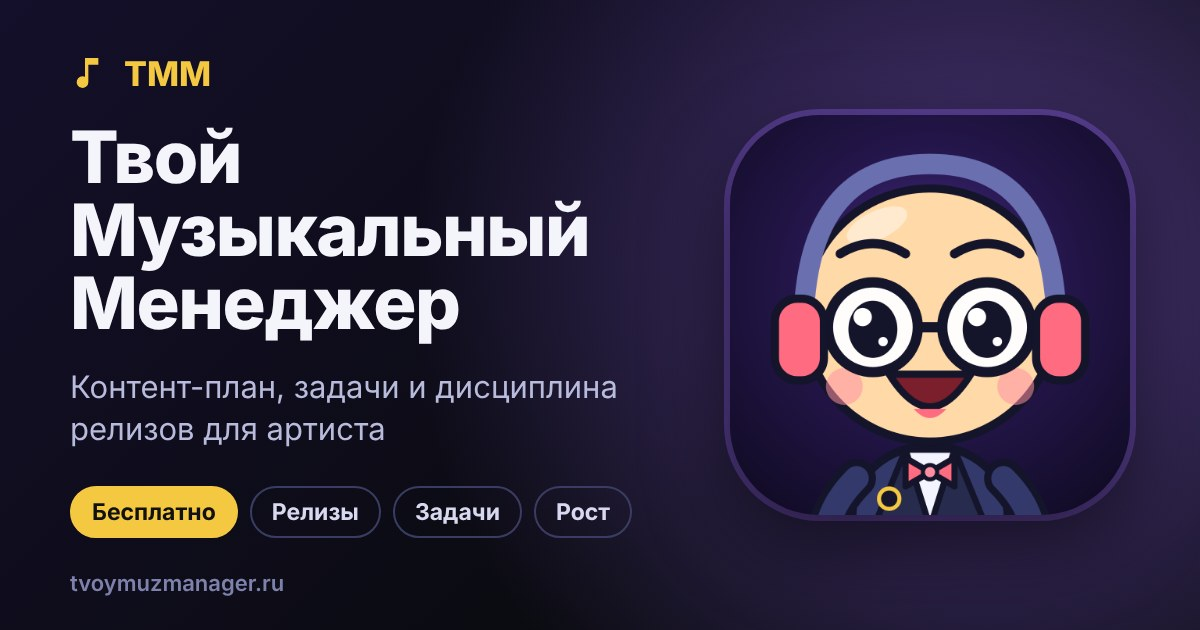
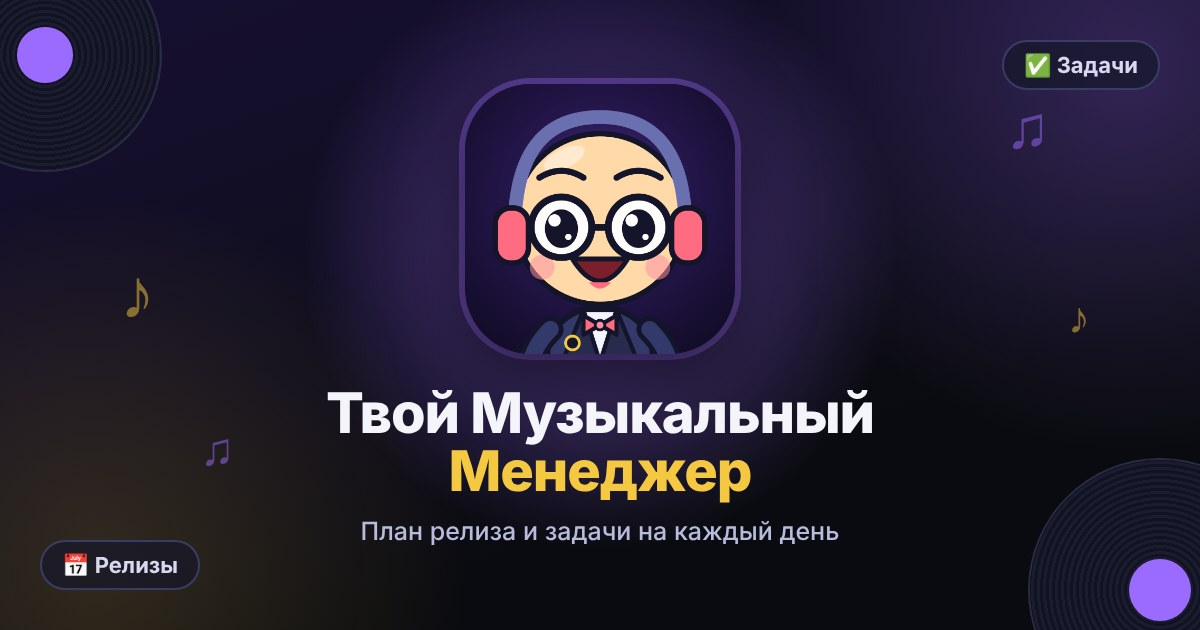
Превью ссылки: главное в центре, чтобы квадратная обрезка ВК не резала текст
Claude-Session: https://claude.ai/code/session_01D4KCe329M2tGeP7AitbD4B

diff --git a/index.html b/index.html
@@ -20,7 +20,7 @@
 <meta property="og:title" content="Твой Музыкальный Менеджер">
 <meta property="og:description" content="Бесплатный менеджер для артиста: план релиза, контент-план и задачи на каждый день. Помогает выпускать музыку регулярно и расти.">
 <meta property="og:url" content="https://tvoymuzmanager.ru/">
-<meta property="og:image" content="https://tvoymuzmanager.ru/og.jpg?v=1">
+<meta property="og:image" content="https://tvoymuzmanager.ru/og.jpg?v=2">
 <meta property="og:image:width" content="1200">
 <meta property="og:image:height" content="630">
 <meta property="og:image:alt" content="ТММ — маскот в наушниках и название приложения">
@@ -28,7 +28,7 @@
 <meta name="twitter:card" content="summary_large_image">
 <meta name="twitter:title" content="Твой Музыкальный Менеджер">
 <meta name="twitter:description" content="Бесплатный менеджер для артиста: план релиза, контент-план и задачи на каждый день. Помогает выпускать музыку регулярно и расти.">
-<meta name="twitter:image" content="https://tvoymuzmanager.ru/og.jpg?v=1">
+<meta name="twitter:image" content="https://tvoymuzmanager.ru/og.jpg?v=2">
 <link href="https://fonts.googleapis.com/css2?family=Inter:wght@400;500;600;700;800&display=swap" rel="stylesheet">
 <style>
 :root{--bg:#0a0b10;--bg2:#100b20;--card:#161729;--card2:#1d1f36;--line:#2a2c47;--ink:#f4f4fb;--mut:#8b8fb5;--y:#f5c842;--p:#9b6bff;--o:#ff9a2e;--g:#4ade80;--bad:#ff6b81;color-scheme:dark;box-sizing:border-box}

diff --git a/tools/build_site.py b/tools/build_site.py
@@ -41,7 +41,7 @@ OG = (
     '<meta property="og:title" content="Твой Музыкальный Менеджер">\n'
     '<meta property="og:description" content="%s">\n'
     '<meta property="og:url" content="%s">\n'
-    '<meta property="og:image" content="%sog.jpg?v=1">\n'
+    '<meta property="og:image" content="%sog.jpg?v=2">\n'
     '<meta property="og:image:width" content="1200">\n'
     '<meta property="og:image:height" content="630">\n'
     '<meta property="og:image:alt" content="ТММ — маскот в наушниках и название приложения">\n'
@@ -49,7 +49,7 @@ OG = (
     '<meta name="twitter:card" content="summary_large_image">\n'
     '<meta name="twitter:title" content="Твой Музыкальный Менеджер">\n'
     '<meta name="twitter:description" content="%s">\n'
-    '<meta name="twitter:image" content="%sog.jpg?v=1">\n'
+    '<meta name="twitter:image" content="%sog.jpg?v=2">\n'
 ) % (OG_DESC, SITE, OG_DESC, SITE, SITE, OG_DESC, SITE)
 if 'og:title' not in s and '</title>' in s:
     s = s.replace('</title>', '</title>\n' + OG.rstrip('\n'), 1)
